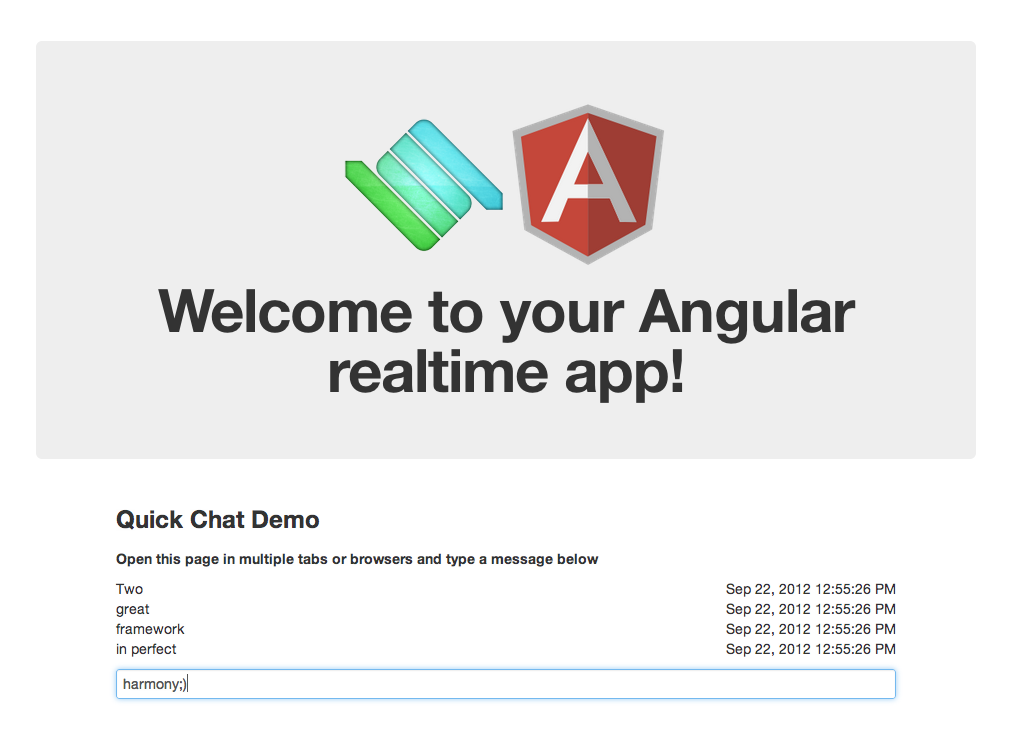
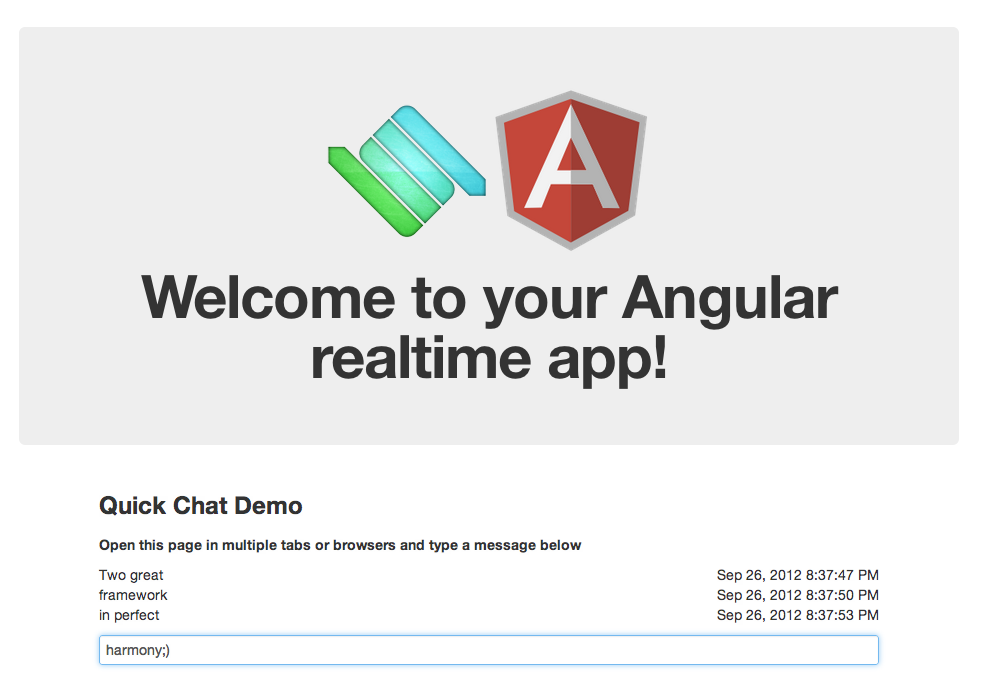
Added timestamp to them messages, make them right;)

diff --git a/client/code/app/app.js b/client/code/app/app.js
@@ -7,7 +7,7 @@ ChatCtrl = function($scope) {
     //listen for new messages from the server, push them into the messages list
     //in the $apply function. This is necessary to update the list in the view.
     ss.event.on('newMessage', function(message) {
-        $scope.$apply($scope.messages.push(message));
+        $scope.$apply($scope.messages.push({text: message, time: Date.now()}));
     });
 
     //When new messages are posted from the form send them to the server.
@@ -21,10 +21,5 @@ ChatCtrl = function($scope) {
         });
         $scope.myMessage = '';
     };
-
-    //helper function to get the current date and time.
-    $scope.now = function() {
-        return Date.now();
-    }
 }
 

diff --git a/client/views/app.html b/client/views/app.html
@@ -34,8 +34,8 @@
 
             <ul class="unstyled">
                 <li ng-repeat="message in messages">
-                    <span>{{message}}</span>
-                    <span class="pull-right">{{now() | date:'medium'}}</span>
+                    <span>{{message.text}}</span>
+                    <span class="pull-right">{{message.time | date:'medium'}}</span>
                 </li>
             </ul>
 
